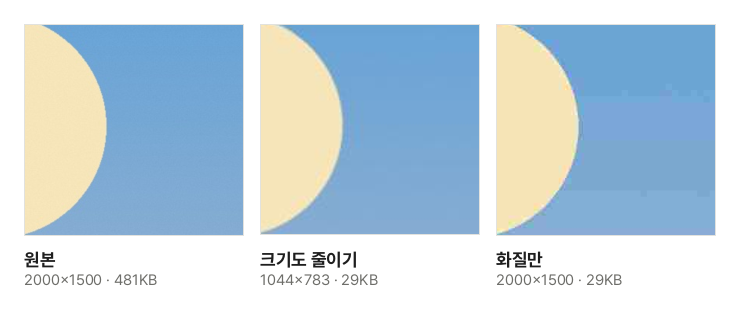
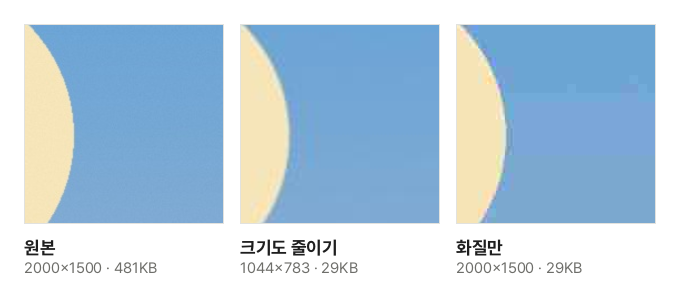
chore(image-target-size): 가이드 비교 그림을 더 좁게 잘라 휴대폰에서 보이게 변경
390 폭에서 그림이 절반 아래로 줄어 화질만 낮춘 쪽의 네모 얼룩이 잘 보이지 않았다.
하늘 쪽을 더 좁게 잘라 크게 보이고, 폭을 이미지 압축 가이드 그림과 같게 맞춘다.

Changed region(s): [[0.0309, 0.06, 0.6485, 0.93], [0.6485, 0.06, 0.9882, 0.93]]

diff --git a/scripts/guide-images/render.py b/scripts/guide-images/render.py
@@ -655,8 +655,8 @@ def photo_size_limit(t, cache, samples, fonts):
     for path, label in paths:
         image = Image.open(path).convert('RGB')
         w, h = image.size
-        crop = image.crop((round(w * 0.44), round(h * 0.2), round(w * 0.58), round(h * 0.38)))
-        items.append((fit_width(crop, 220), label, f'{w}×{h} · {size_label(path)}'))
+        crop = image.crop((round(w * 0.47), round(h * 0.22), round(w * 0.56), round(h * 0.34)))
+        items.append((fit_width(crop, 200), label, f'{w}×{h} · {size_label(path)}'))
     return 'photo-size-limit', 'compare.png', tiles(items, *fonts)
 
 
